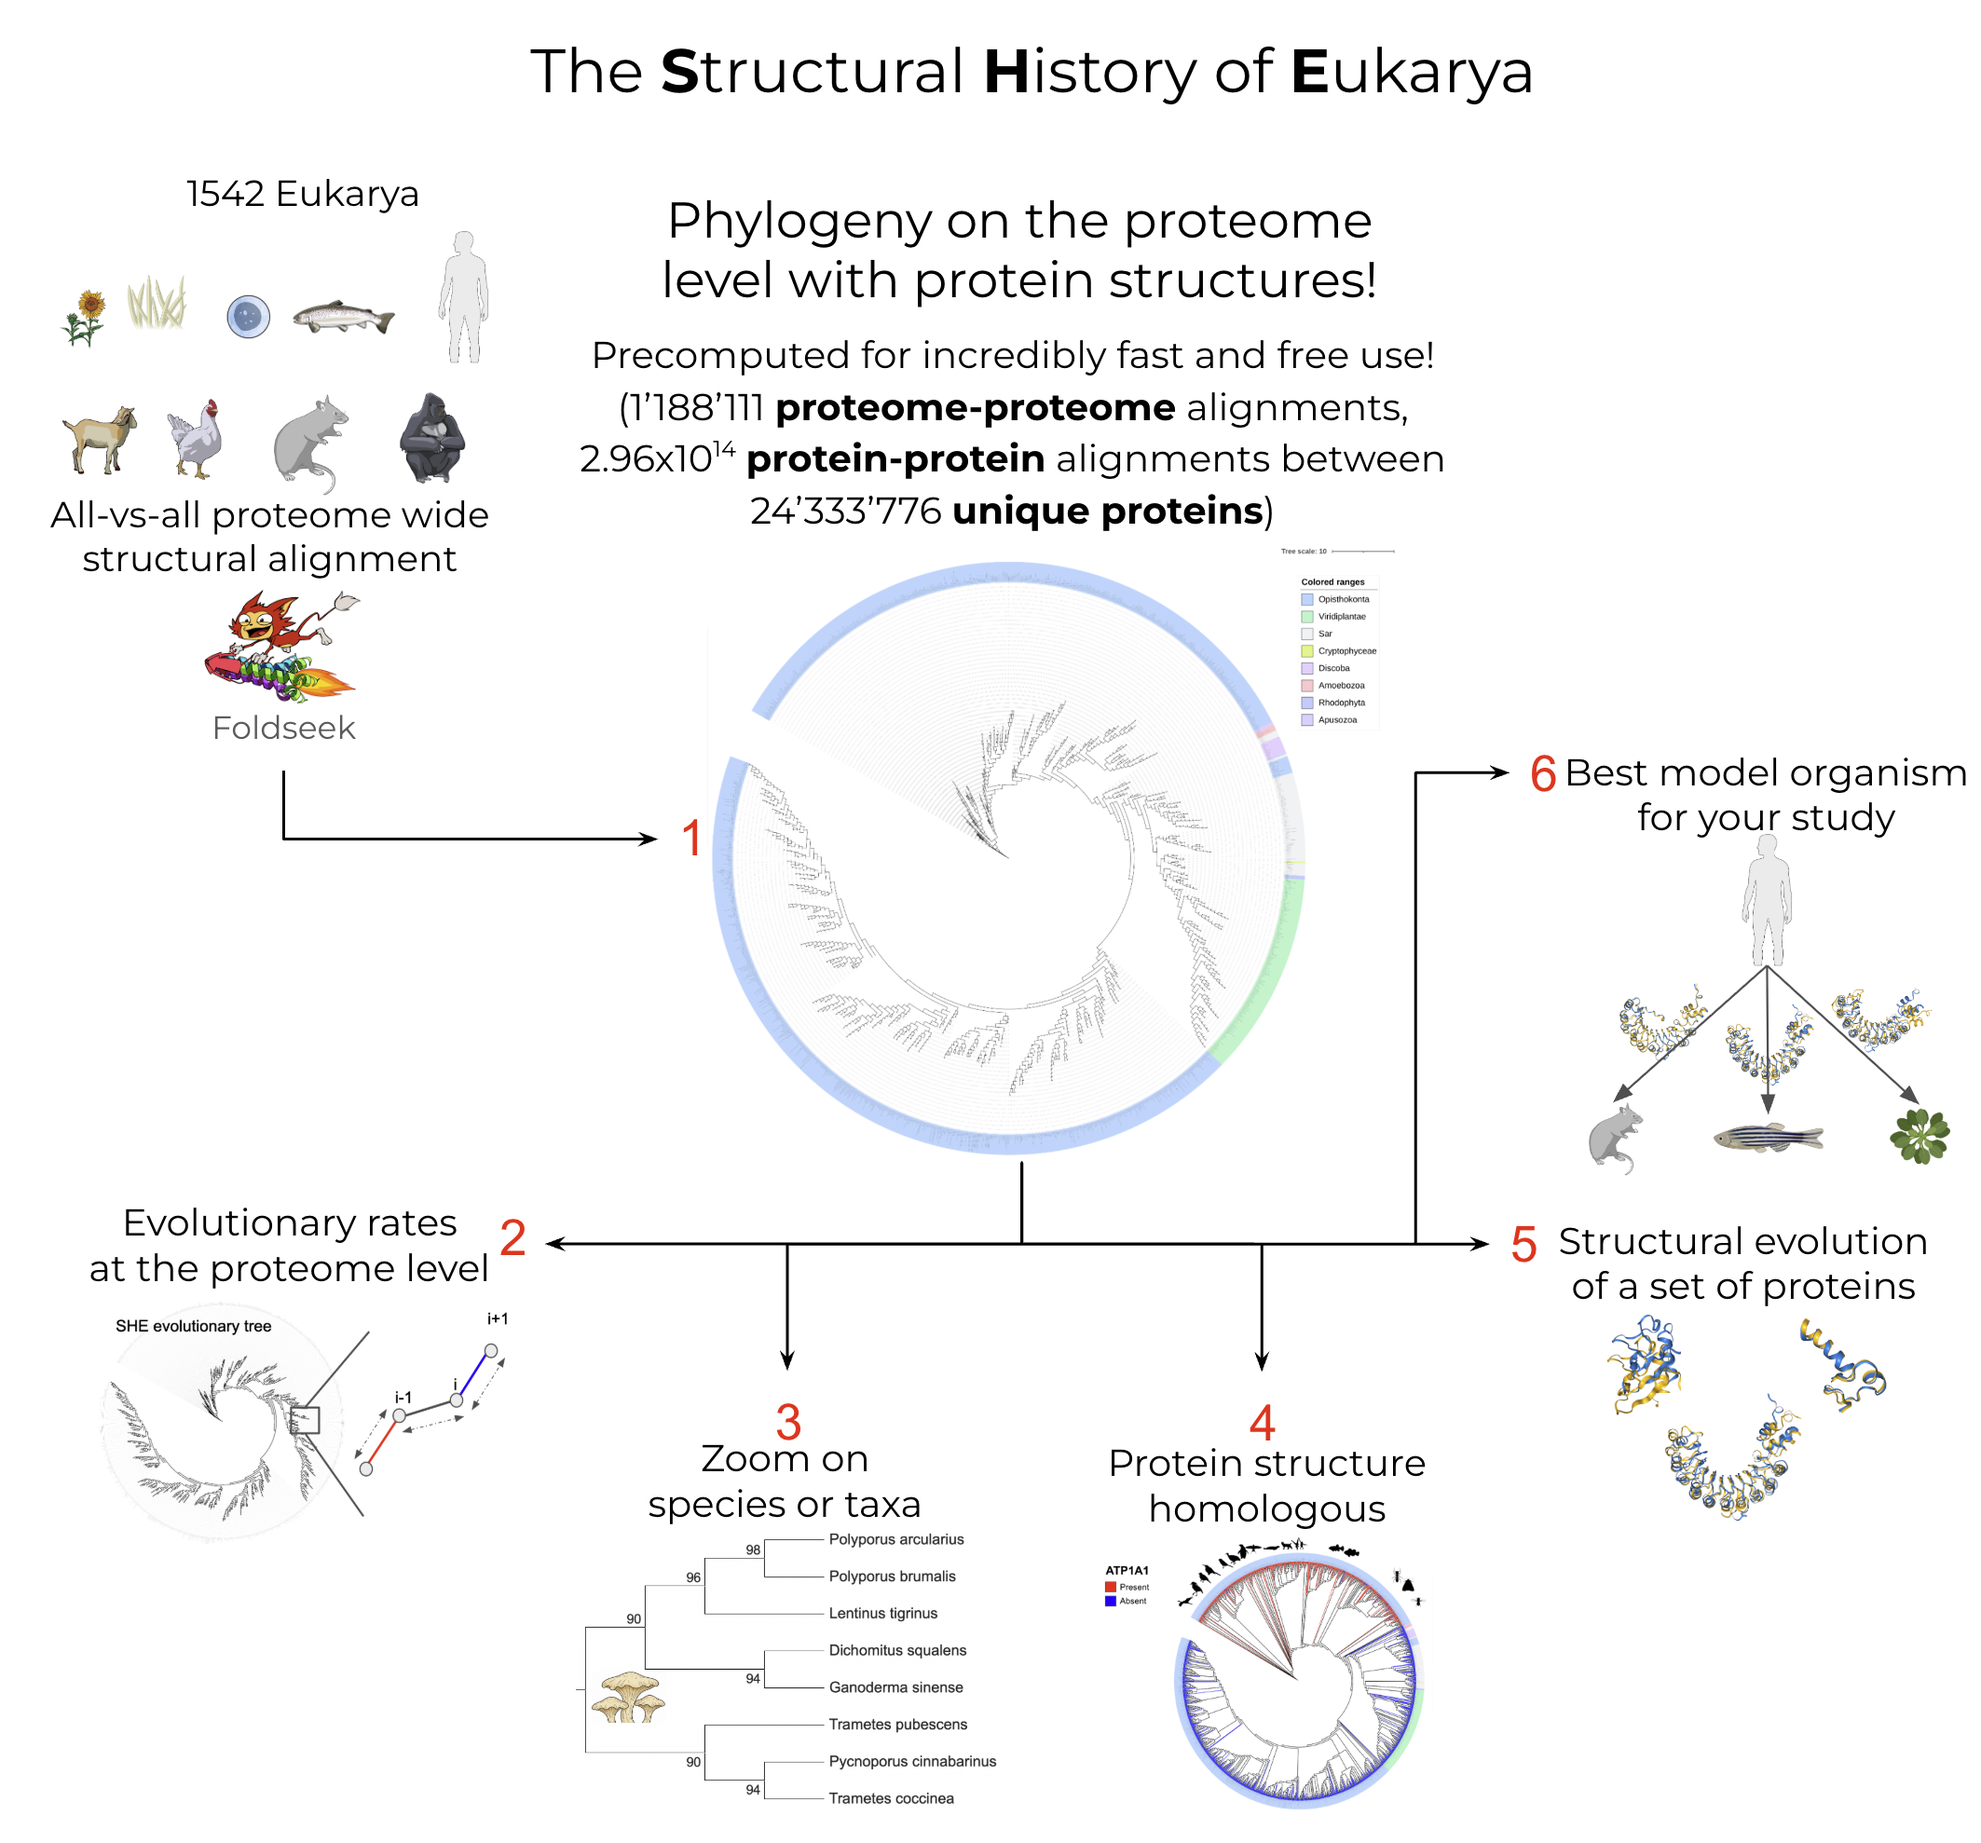
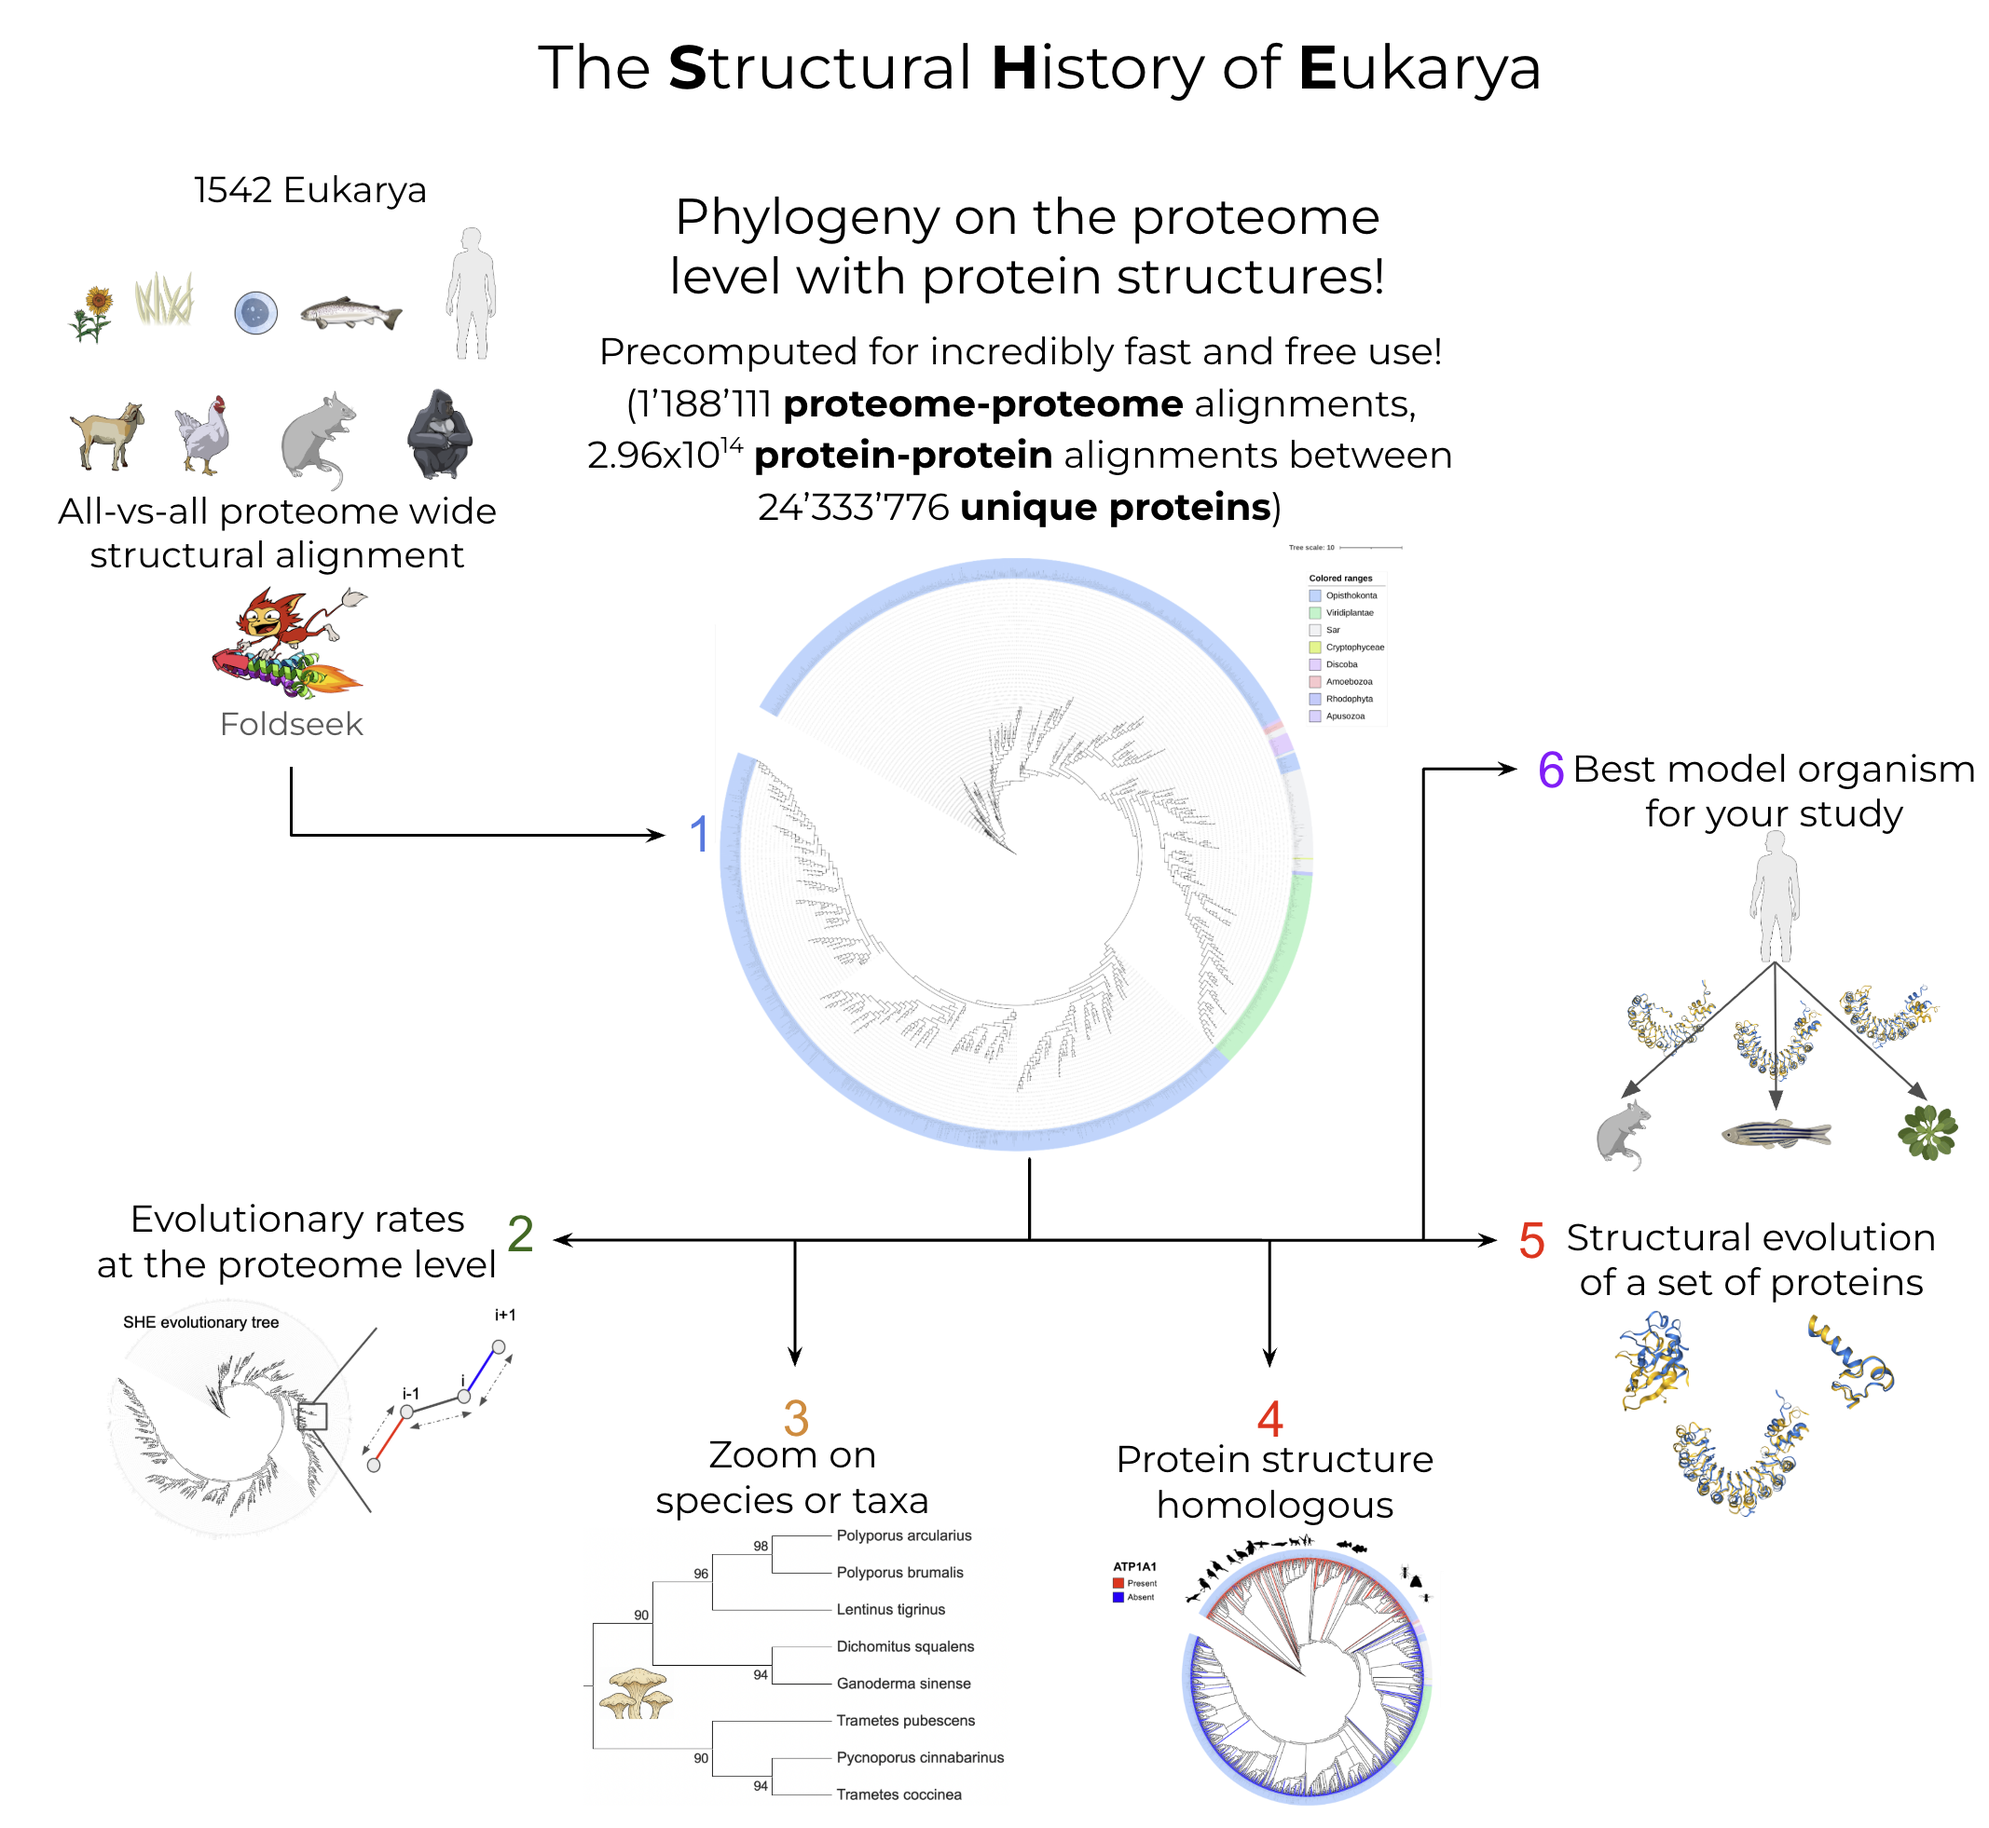
small fixes

diff --git a/app/pages/3_Downloads.py b/app/pages/3_Downloads.py
@@ -35,11 +35,12 @@ if selected is not None:
     st.sidebar.markdown(f"You selected: {sentiment_mapping[selected]}")
 
 st.subheader('Downloads')
-st.write('Here it is possible to download the data (structures and trees) from our analysis')
+st.write('Here it is possible to download the data (structures and trees) from our analysis.')
+st.write('Please, select the type of file you want to download from the sidebar.')
 
 st.sidebar.subheader('Downloads', divider="yellow")
 if st.sidebar.checkbox('Protein-protein alignments by Organism'):
-    if st.subheader('Protein-protein alignments by Organism'):
+    st.subheader('Protein-protein alignments by Organism')
     st.write('Here it is possible to download the Foldseek proteome-proteome comparisons by organism')
 
 

diff --git a/app/pages/2_Model_organisms.py b/app/pages/2_Model_organisms.py
@@ -213,12 +213,10 @@ st.set_page_config(
 )
 
 
-
 st.title('SHE: Structural History of Eukarya')
-st.subheader('Strucutral Phylogenetic Tree')
 st.image(
     'data/tree/model.png',
-    caption='Strucutral Phylogenetic Tree of Eukarya'
+    caption='Protein-protein structure comparison to rank the best model organism for your target organism'
 )
 
 st.write("Here, you can look for the best model organism to use for your study based on the proteins involved in your pathway. Click on 'Find best Model Organism' in the sidebar to start you analysis!")
